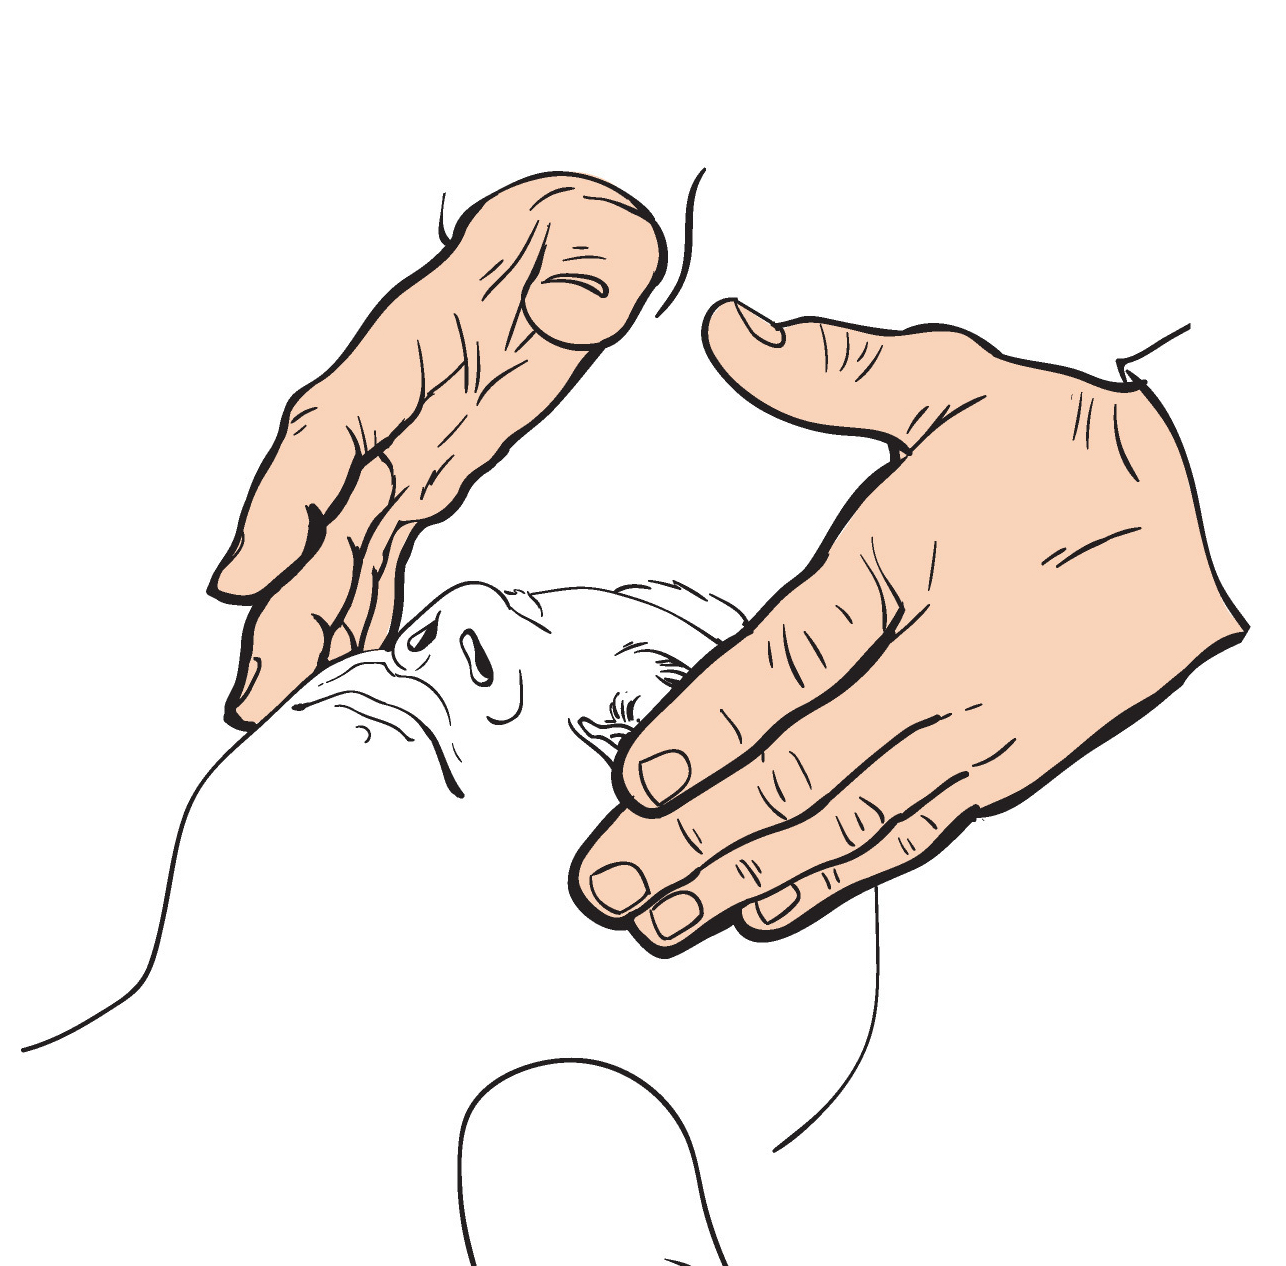
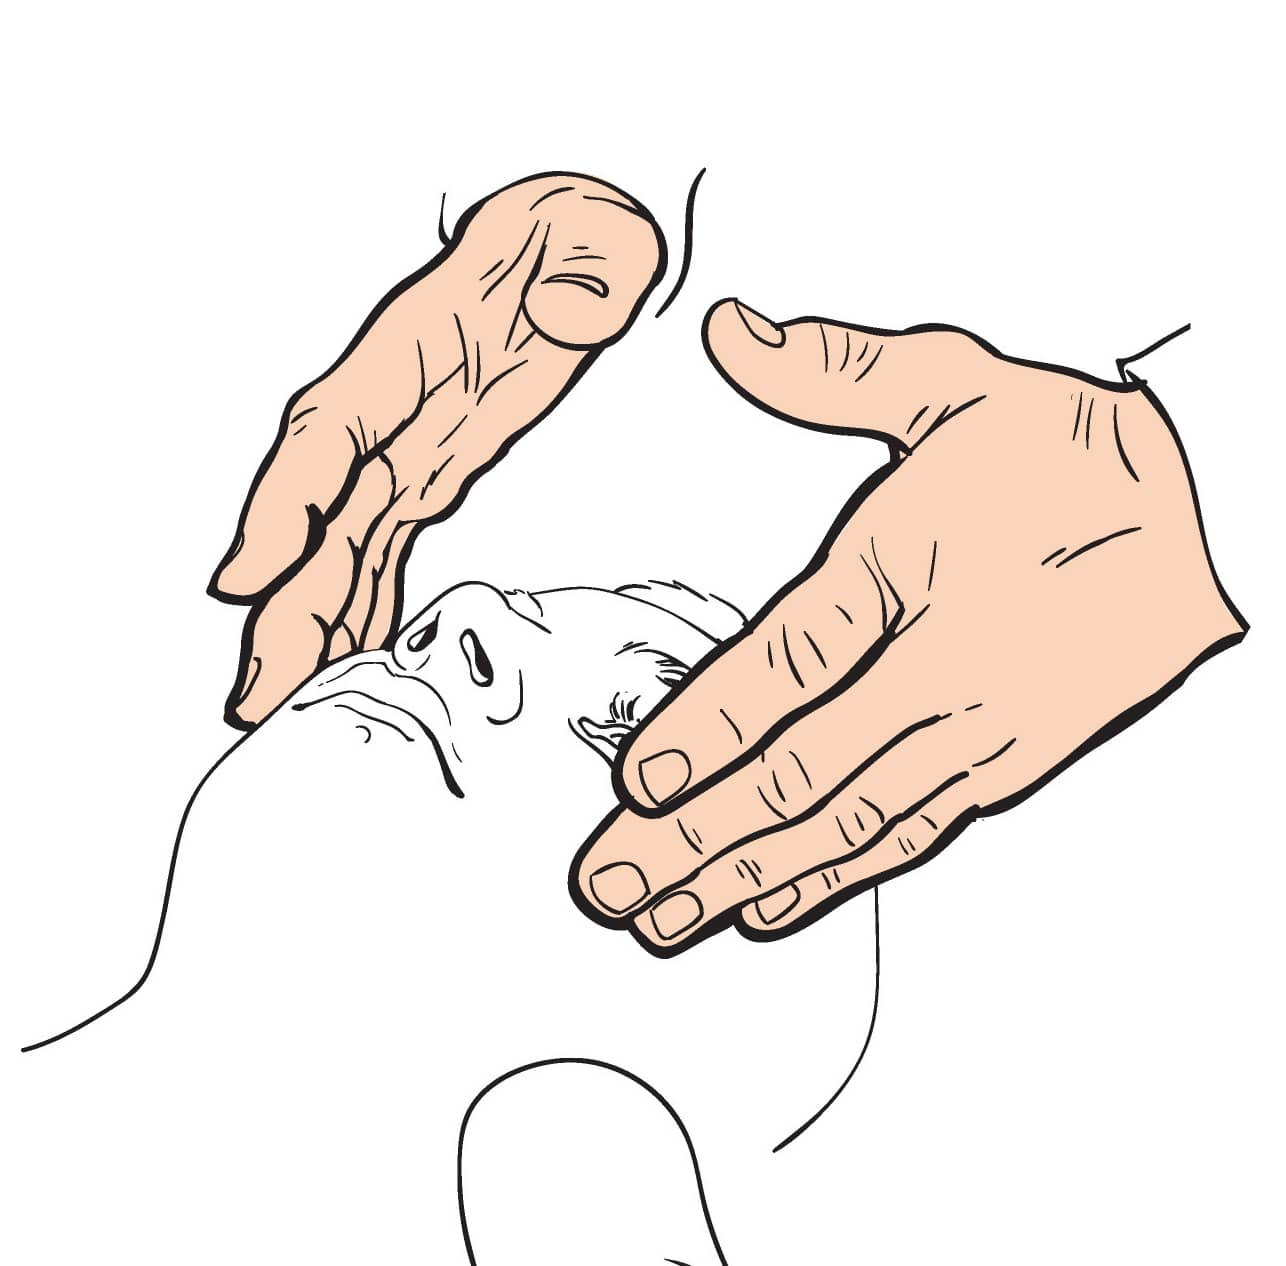
up

diff --git a/index.html b/index.html
@@ -169,7 +169,7 @@
                 </div>
                 <div class="carousel-item position-relative" style="min-height: 100vh;">
                     
-                    <a href="servicos#qm"><img class="position-absolute w-100 h-100 carqm" src="img/quickm.png" style="object-fit: cover;"></a>
+                    <a href="servicos#qm"><img class="position-absolute w-100 h-100 carqm" src="img/quickm.jpg" style="object-fit: cover;"></a>
                     <div class="carousel-caption d-flex flex-column align-items-center justify-content-center">
                         <div class="p-3" style="max-width: 900px;">
                             <h6 class="text-white text-uppercase mb-3 animate__animated animate__fadeInDown" style="letter-spacing: 3px;">Terapias Manuais</h6>
